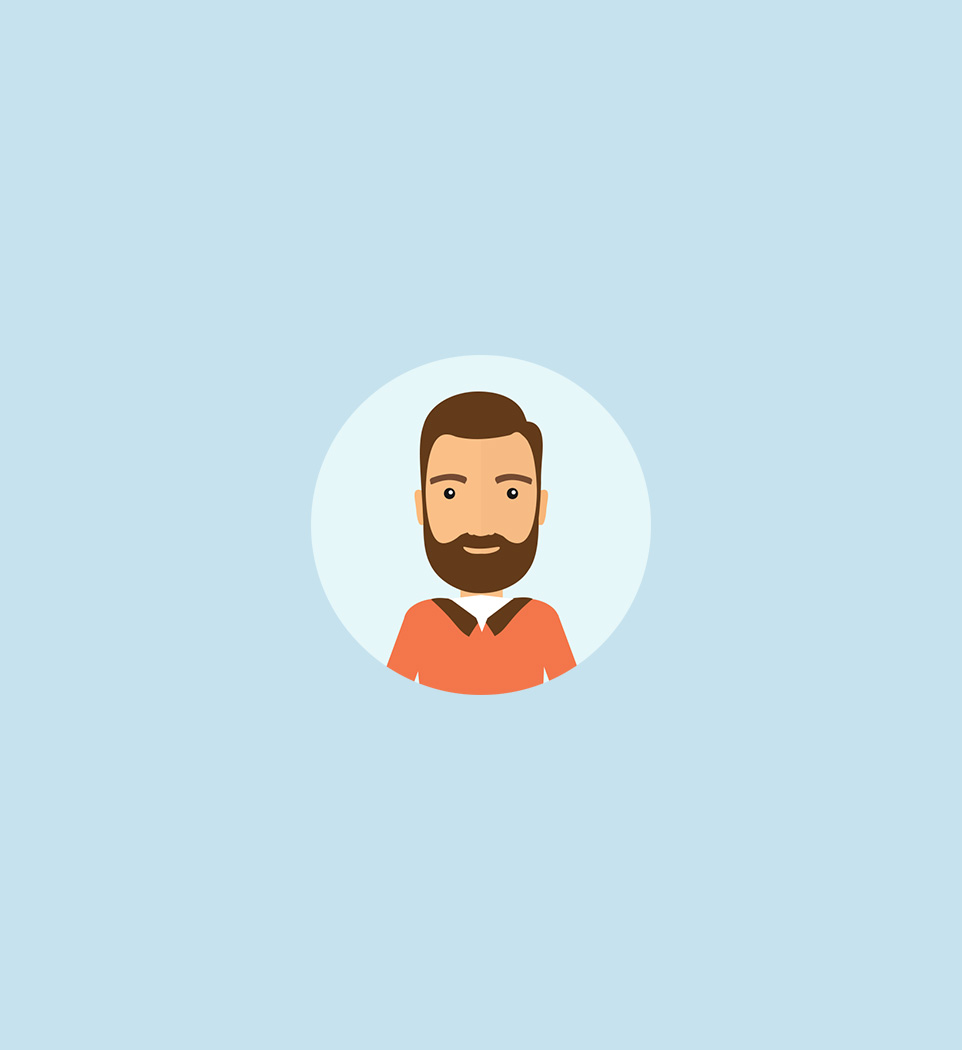
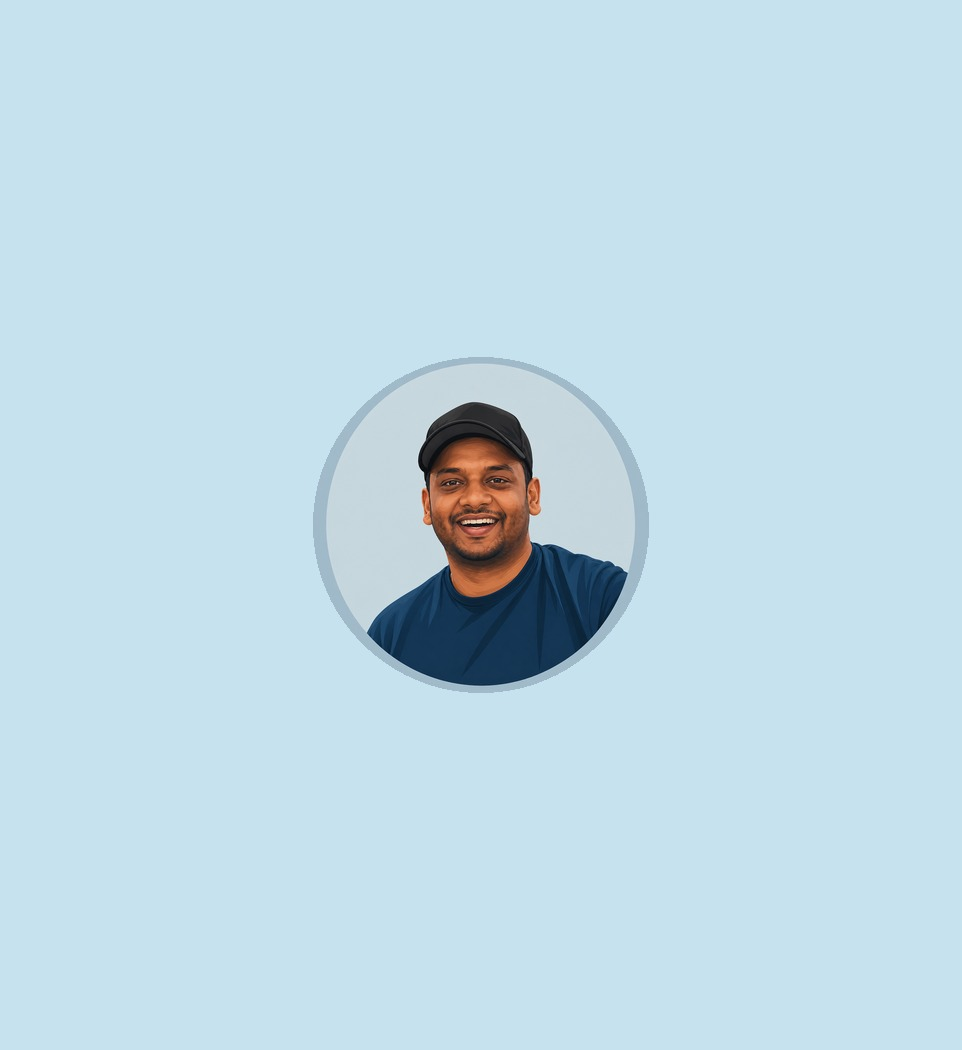
Refresh content, photos, and styling
- Update main blurb and Microsoft resume bullets
- Replace stock avatars with new portrait (header + testimonials)
- Add Azure Fluid Relay experience card and testimonial
- Add Stack Overflow social link
- Drop templateshub link from site title
- Flatten section title; uniform 5-card experience row with equal heights

Changed region(s): [[0.3119, 0.3352, 0.6861, 0.6705]]

diff --git a/index.html b/index.html
@@ -18,8 +18,71 @@
     <link rel="stylesheet" href="css/magnific-popup.css">
     <link rel="stylesheet" href="css/animate.css">
     <link rel="stylesheet" href="css/main.css" type="text/css">
-    
-  
+    <style>
+      @media (min-width: 992px) {
+        .experience-row > .subpage-block {
+          width: 20%;
+        }
+      }
+      .event-bullets {
+        margin: 4px 0 0;
+        padding-left: 18px;
+        font-size: 0.875em;
+        font-weight: 300;
+        color: #666;
+      }
+      .event-bullets li {
+        margin-bottom: 3px;
+        line-height: 1.5em;
+      }
+      /* Flatter, modern section title (replaces chunky yellow block) */
+      .section-title {
+        background: transparent !important;
+        color: #222 !important;
+        margin: 0 !important;
+        padding: 4px 0 4px 14px !important;
+        text-shadow: none !important;
+        border-left: 3px solid #ffcd38;
+        font-weight: 500;
+        letter-spacing: 0.5px;
+      }
+      .section-title:after {
+        display: none !important;
+      }
+      /* Uniform experience cards: equal heights, normalized icons */
+      .experience-row .subpage-block {
+        display: flex;
+      }
+      .experience-row .service-block {
+        width: 100%;
+        display: flex;
+        flex-direction: column;
+        align-items: center;
+      }
+      .experience-row .service-block .service-info {
+        display: flex;
+        flex-direction: column;
+        align-items: center;
+        width: 100%;
+      }
+      .experience-row .service-block img {
+        height: 64px;
+        max-height: 64px;
+        width: auto;
+        max-width: 110px;
+        margin: 0 0 18px;
+        object-fit: contain;
+      }
+      .experience-row .service-block h4 {
+        min-height: 2.6em;
+        display: flex;
+        align-items: center;
+        justify-content: center;
+        margin-bottom: 8px;
+        text-align: center;
+      }
+    </style>
+
 
     <!-- This styles needs for demo -->
     <link rel="stylesheet" href="preview/lmpixels-demo-panel.css" type="text/css">
@@ -50,7 +113,7 @@
         </div>
 
         <div class="site-title-block">
-          <a href="https://www.templateshub.net" target="_blank"><h1 class="site-title">Pradeep Vairamani</h1></a>
+          <h1 class="site-title">Pradeep Vairamani</h1>
           <p class="site-description">Software engineer</p>
         </div>
 
@@ -88,6 +151,7 @@
               <li><a class="tip social-button" href="https://www.facebook.com/pradeeprv/" title="Facebook"><i class="fa fa-facebook"></i></a></li>
               <li><a class="tip social-button" href="https://www.linkedin.com/in/pradeepvairamani" title="LinkedIn"><i class="fa fa-linkedin"></i></a></li>
               <li><a class="tip social-button" href="https://github.com/pradeepvairamani/" title="Github"><i class="fa fa-github"></i></a></li>
+              <li><a class="tip social-button" href="https://stackoverflow.com/users/750940/pradeep-vairamani" title="Stack Overflow"><i class="fa fa-stack-overflow"></i></a></li>
               <!--<li><a class="tip social-button" href="#" title="last.fm"><i class="fa fa-lastfm"></i></a></li>-->
               <!--<li><a class="tip social-button" href="#" title="Dribbble"><i class="fa fa-dribbble"></i></a></li>-->
             </ul>
@@ -113,7 +177,7 @@
                 <div class="col-sm-6 col-md-6 subpage-block">
                   <div class="general-info">
                     <h3>I am a Principal software engineer @ Microsoft</h3>
-                    <p>I believe I bring with me a good blend of skills. I have a solid technical background with exposure to cutting edge technology in public facing product companies, such as Qualcomm, Oracle, VMware and Disney Interactive. I constantly work towards understanding the bigger picture, and contributing to it. In my previous roles, this involved designing complex, flexible and scalable systems while understanding the business aspect of software development.</p>
+                    <p>I bring a strong blend of technical depth and product-oriented thinking, with experience working on cutting-edge technologies at public-facing product companies such as Qualcomm, Oracle, VMware, and Disney Interactive. In these roles, I’ve focused on designing complex, flexible, and scalable systems that support evolving product needs.</p>
                   </div>
                 </div>
 
@@ -141,16 +205,16 @@
                       <!-- Testimonial Content -->
                       <div class="testimonial-content">
                         <div class="testimonial-text">
-                          <p>I am currently working on Azure fluid relay which is a ultra-low latency collaboration backend for <a href="https://fluidframework.com/">Fluid Framework</a>.</p>
+                          <p>Working on a next-gen Office artifact. Also, helped incubate a new AI experience in Microsoft 365 Copilot.</p>
                         </div>
-                      </div>            
-                      <!-- /Testimonial Content -->  
+                      </div>
+                      <!-- /Testimonial Content -->
                       <!-- Testimonial Author -->
                       <div class="testimonial-credits">
                         <!-- Picture -->
                         <div class="testimonial-picture">
                           <img src="images/testimonials/testimonial_photo_1.png" alt="">
-                        </div>              
+                        </div>
                         <!-- /Picture -->
                         <!-- Testimonial author information -->
                         <div class="testimonial-author-info">
@@ -158,7 +222,7 @@
                           <p class="testimonial-firm">Microsoft</p>
                         </div>
                       </div>
-                      <!-- /Testimonial author information -->               
+                      <!-- /Testimonial author information -->
                     </div>
                     <!-- End of Testimonial 1 -->
 
@@ -167,16 +231,42 @@
                       <!-- Testimonial Content -->
                       <div class="testimonial-content">
                         <div class="testimonial-text">
+                          <p>I am currently working on Azure fluid relay which is a ultra-low latency collaboration backend for <a href="https://fluidframework.com/">Fluid Framework</a>.</p>
+                        </div>
+                      </div>
+                      <!-- /Testimonial Content -->
+                      <!-- Testimonial Author -->
+                      <div class="testimonial-credits">
+                        <!-- Picture -->
+                        <div class="testimonial-picture">
+                          <img src="images/testimonials/testimonial_photo_1.png" alt="">
+                        </div>
+                        <!-- /Picture -->
+                        <!-- Testimonial author information -->
+                        <div class="testimonial-author-info">
+                          <p class="testimonial-author">Pradeep</p>
+                          <p class="testimonial-firm">Microsoft</p>
+                        </div>
+                      </div>
+                      <!-- /Testimonial author information -->
+                    </div>
+                    <!-- End of Testimonial 2 -->
+
+                    <!-- Testimonial 3 -->
+                    <div class="testimonial-item">
+                      <!-- Testimonial Content -->
+                      <div class="testimonial-content">
+                        <div class="testimonial-text">
                           <p>"Before Microsoft, I worked at VMware on software defined data center as a service aka vmware cloud."</p>
                         </div>
-                      </div>            
-                      <!-- /Testimonial Content -->  
+                      </div>
+                      <!-- /Testimonial Content -->
                       <!-- Testimonial Author -->
                       <div class="testimonial-credits">
                         <!-- Picture -->
                         <div class="testimonial-picture">
                           <img src="images/testimonials/testimonila_photo_2.png" alt="">
-                        </div>              
+                        </div>
                         <!-- /Picture -->
                         <!-- Testimonial author information -->
                         <div class="testimonial-author-info">
@@ -184,9 +274,9 @@
                           <p class="testimonial-firm">VMware</p>
                         </div>
                       </div>
-                      <!-- /Testimonial author information -->               
+                      <!-- /Testimonial author information -->
                     </div>
-                    <!-- End of Testimonial 2 -->
+                    <!-- End of Testimonial 3 -->
                   </div>
                 </div>
               </div>
@@ -196,9 +286,19 @@
                 <h3>Experience</h3>
               </div>
 
-              <div class="row">
+              <div class="row experience-row">
                 <div class="col-sm-6 col-md-3 subpage-block">
-                  <div class="service-block"> 
+                  <div class="service-block">
+                    <div class="service-info">
+                      <img src="images/service/azure-fluid-relay.png" alt="Azure Fluid Relay">
+                      <h4>Azure Fluid Relay</h4>
+                      <p>Ultra-low latency collaboration backend powering Fluid Framework.</p>
+                    </div>
+                  </div>
+                </div>
+
+                <div class="col-sm-6 col-md-3 subpage-block">
+                  <div class="service-block">
                     <div class="service-info">
                       <img src="images/service/vmware.png" alt="Responsive Design">
                       <h4>SDDC as a service</h4>
@@ -287,8 +387,13 @@
                     <div class="timeline-event te-primary">
                       <h5 class="event-date">Mar 2018 - Current</h5>
                       <h4 class="event-name">Principal software engineer</h4>
-                      <span class="event-description">Fluid/Office collaboration service</span>
-                      <p>Working on the backend service powering real time coauthoring across all Office endpoints</p>
+                      <span class="event-description">Microsoft</span>
+                      <ul class="event-bullets">
+                        <li>Working on next-gen Office artifacts</li>
+                        <li>Helped incubate a new AI experience in Microsoft 365 Copilot</li>
+                        <li>Helped scale Azure Fluid Relay from zero to a billion sessions per month</li>
+                        <li>Worked on the Office collaboration service</li>
+                      </ul>
                     </div>
                     <!-- Single event -->
                     <div class="timeline-event te-primary">
